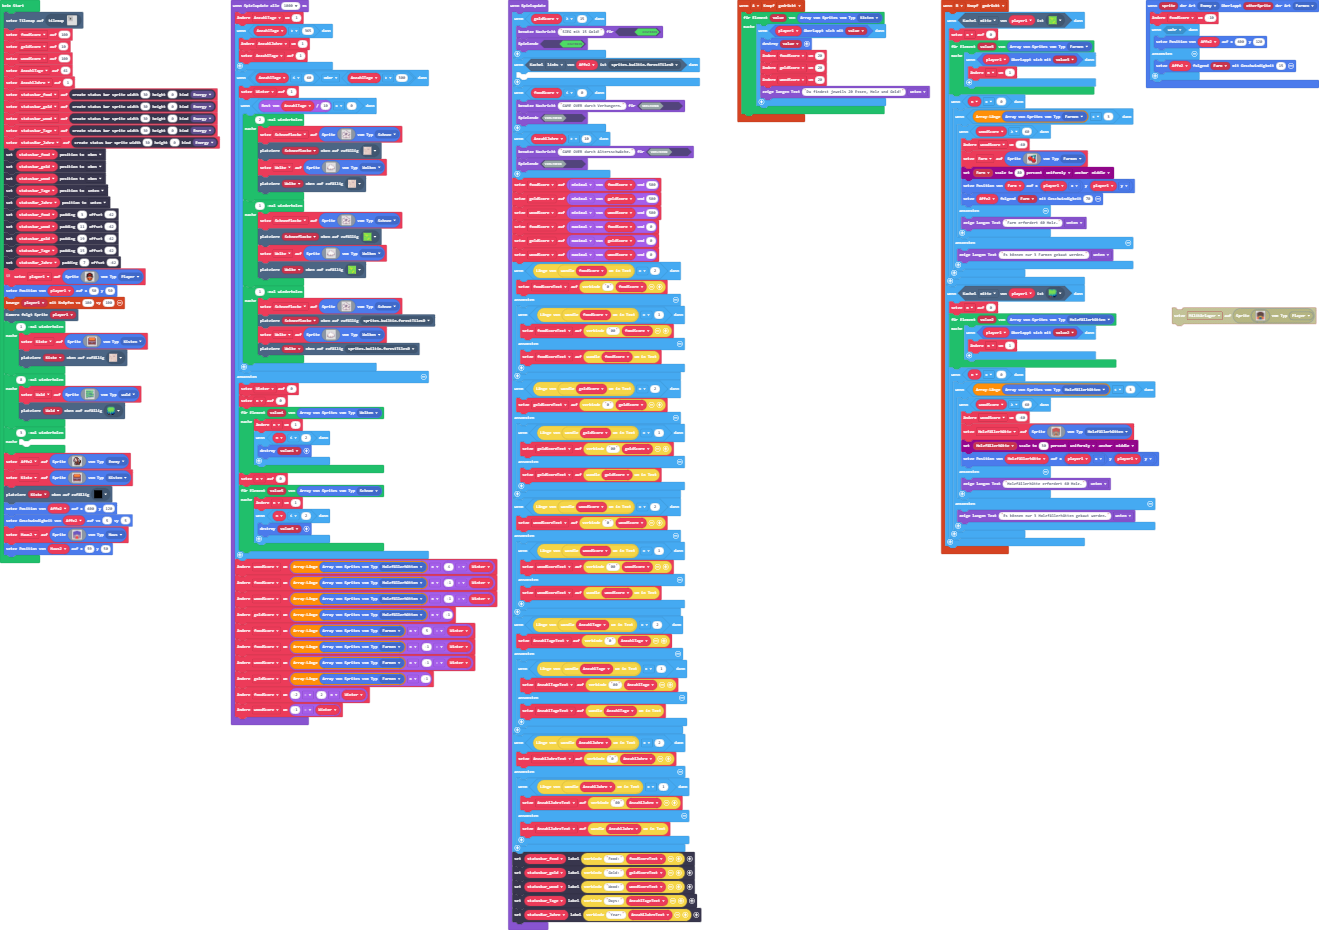
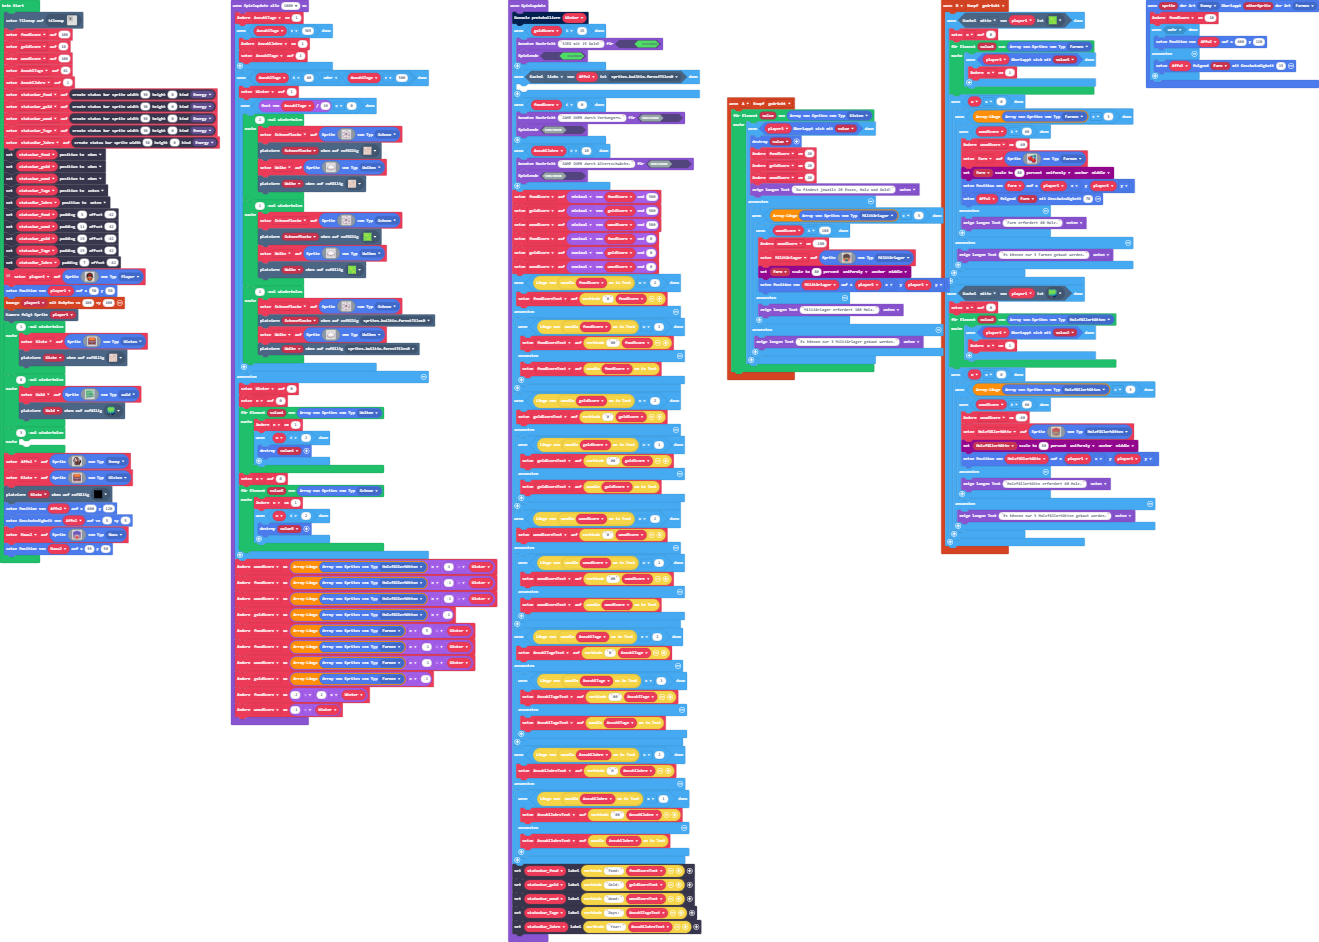
Aktualisiere pxt.json, main.blocks, main.ts

Changed region(s): [[0.0, 0.0, 0.9014, 0.9978], [0.8704, 0.3118, 1.0, 0.3742], [0.8704, 0.0, 0.9947, 0.0935]]

diff --git a/main.ts b/main.ts
@@ -9,6 +9,7 @@ namespace SpriteKind {
     export const Affe = SpriteKind.create()
     export const Haus = SpriteKind.create()
     export const wald = SpriteKind.create()
+    export const Militärlager = SpriteKind.create()
 }
 namespace StatusBarKind {
     export const Wood = StatusBarKind.create()
@@ -23,6 +24,19 @@ controller.A.onEvent(ControllerButtonEvent.Pressed, function () {
             goldScore += 20
             woodScore += 20
             game.showLongText("Du findest jeweils 20 Essen, Holz und Gold!", DialogLayout.Bottom)
+        } else {
+            if (sprites.allOfKind(SpriteKind.Militärlager).length < 3) {
+                if (woodScore >= 180) {
+                    woodScore += -180
+                    Militärlager = sprites.create(assets.image`Militärlager`, SpriteKind.Militärlager)
+                    scaling.scaleToPercent(Farm, 80, ScaleDirection.Uniformly, ScaleAnchor.Middle)
+                    Militärlager.setPosition(player1.x, player1.y)
+                } else {
+                    game.showLongText("Militärlager erfordert 180 Holz.", DialogLayout.Bottom)
+                }
+            } else {
+                game.showLongText("Es können nur 3 Militärlager gebaut werden.", DialogLayout.Bottom)
+            }
         }
     }
 })
@@ -83,15 +97,16 @@ controller.B.onEvent(ControllerButtonEvent.Pressed, function () {
 })
 let Wolke: Sprite = null
 let Schneeflocke: Sprite = null
-let Winter = 0
 let AnzahlJahreText = ""
 let AnzahlTageText = ""
 let woodScoreText = ""
 let goldScoreText = ""
 let foodScoreText = ""
+let Winter = 0
 let Holzfällerhütte: Sprite = null
 let n = 0
 let Farm: Sprite = null
+let Militärlager: Sprite = null
 let Affe2: Sprite = null
 let Wald: Sprite = null
 let Kiste: Sprite = null
@@ -142,6 +157,7 @@ Affe2.setVelocity(5, 5)
 let Haus2 = sprites.create(assets.image`Haus`, SpriteKind.Haus)
 Haus2.setPosition(59, 50)
 game.onUpdate(function () {
+    console.log(Winter)
     if (goldScore >= 15) {
         game.setGameOverMessage(true, "SIEG mit 15 Gold!")
         game.gameOver(true)
